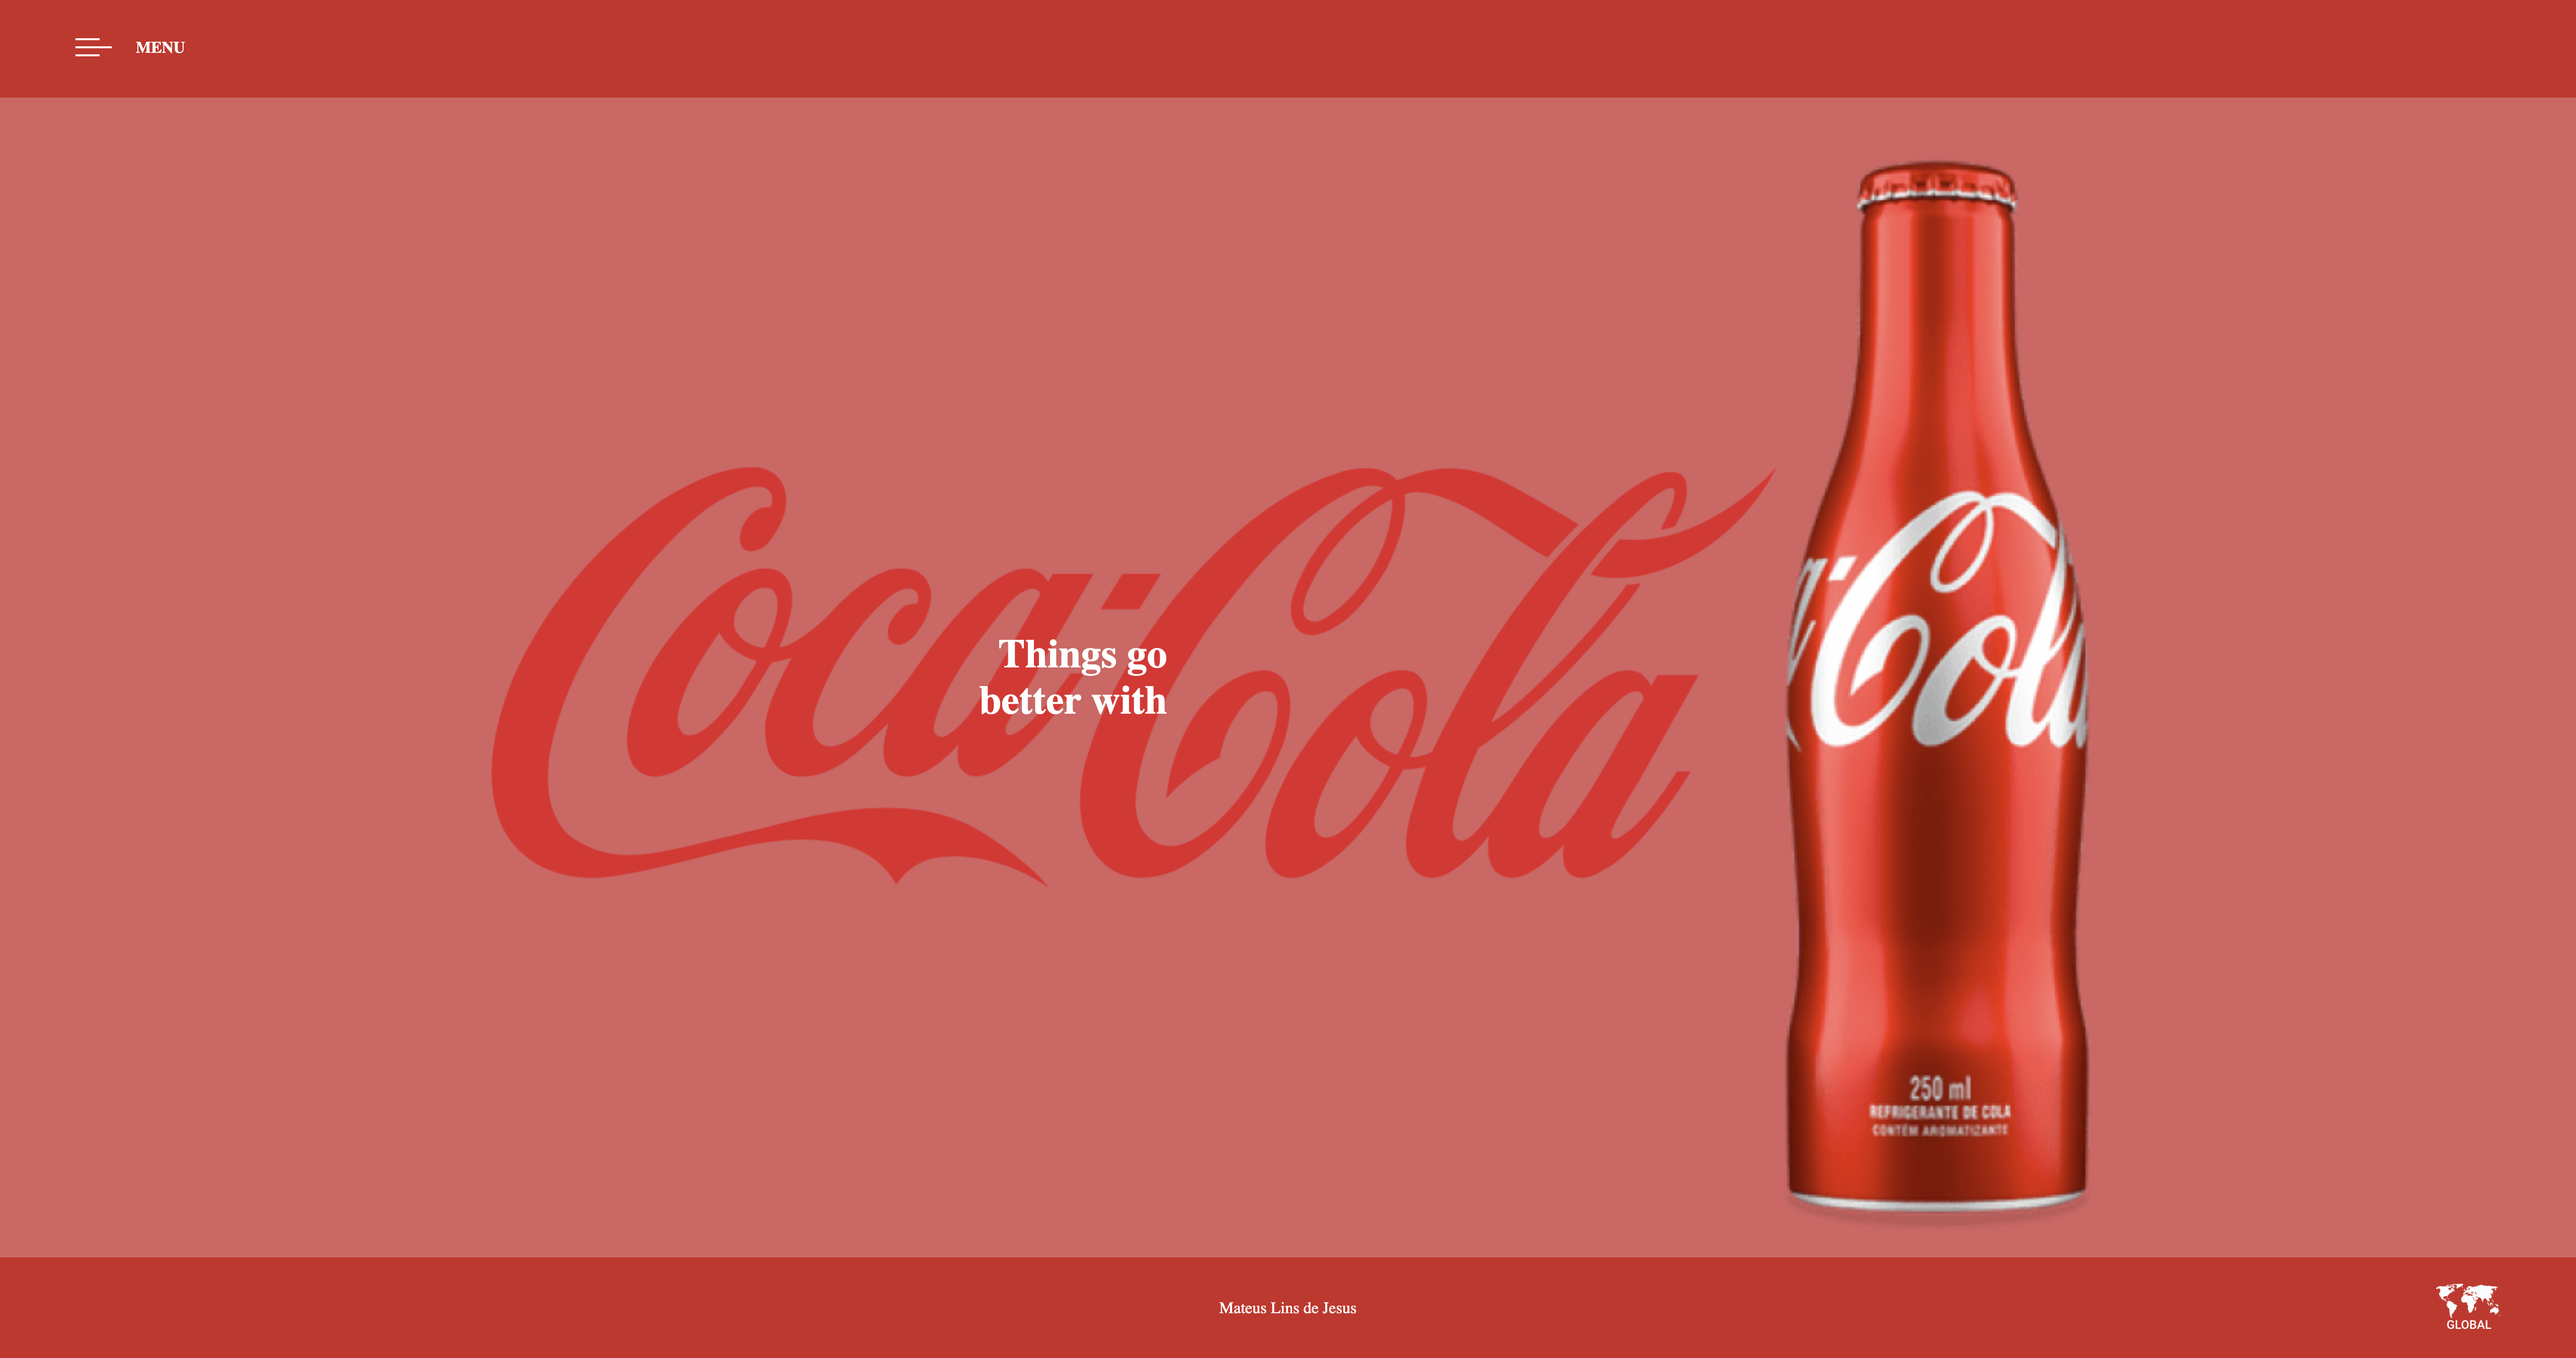
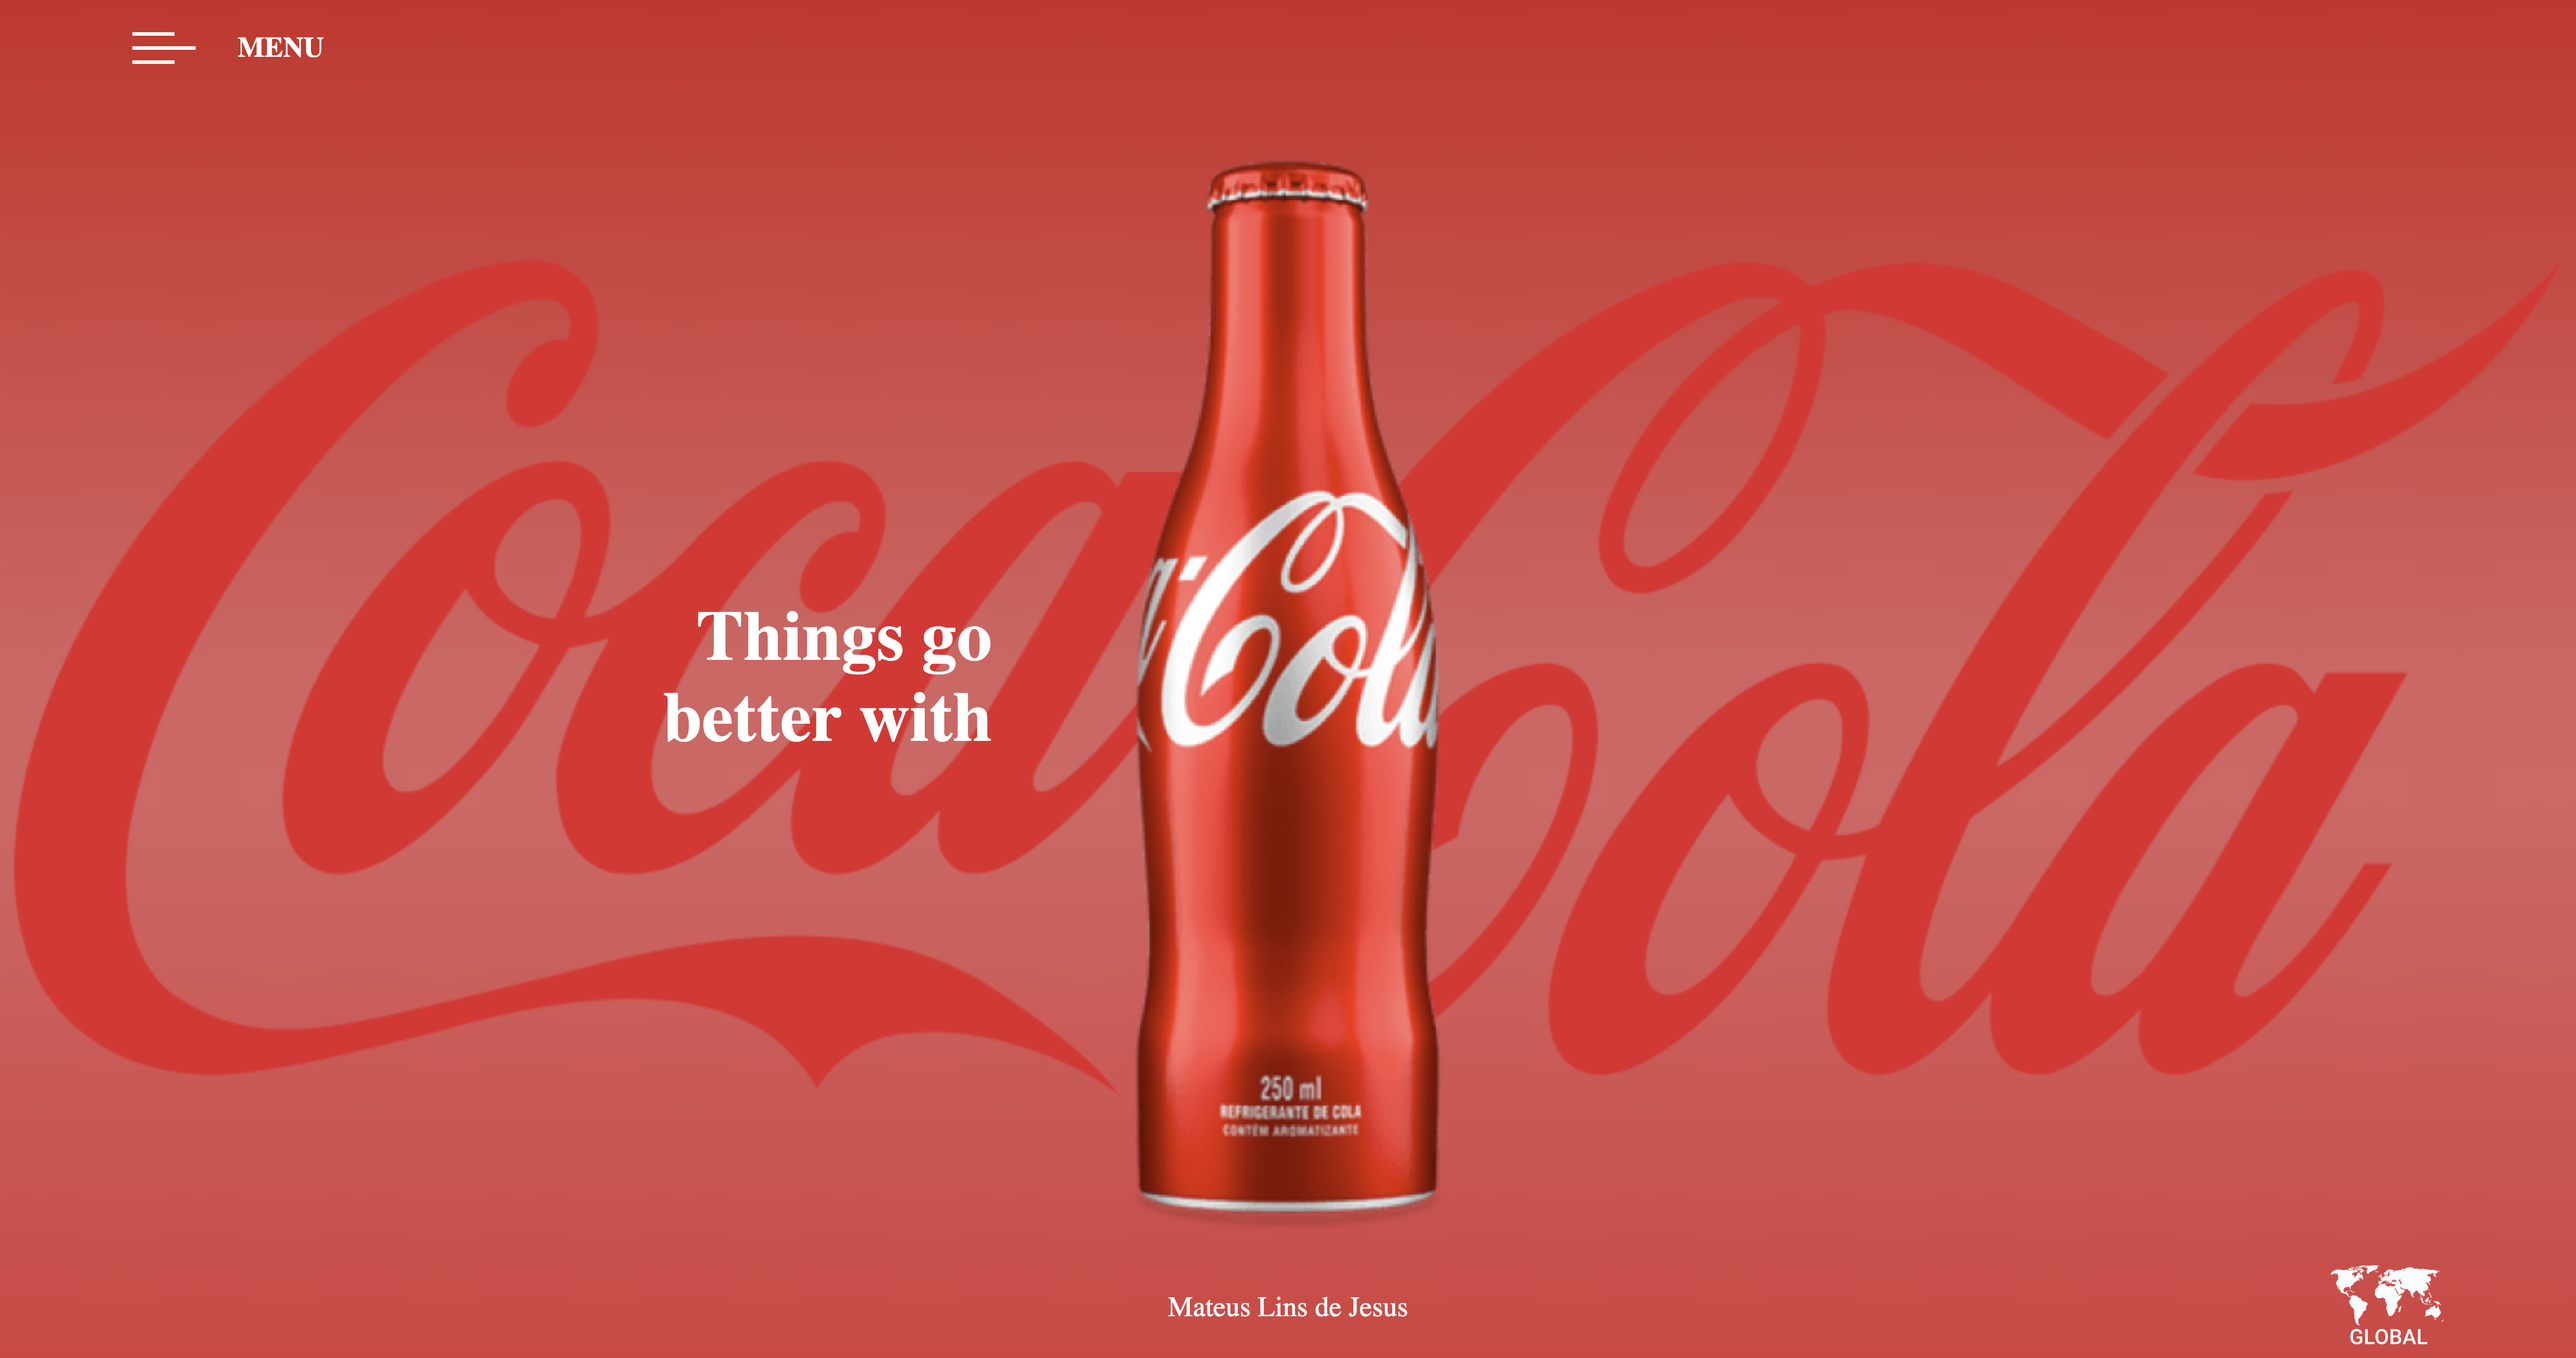
questoes e tals

diff --git a/style.css b/style.css
@@ -14,7 +14,6 @@ body{
 
 header, footer{
     height: 100px;
-    background-color: #CF2425;
     color: #FFFFFF;
     display: flex;
     align-items: center;
@@ -27,7 +26,7 @@ main{
     display: flex;
     justify-content: center;
     align-items: center;
-    background-color: #DA6062;
+    
 }
 
 header{
@@ -68,7 +67,7 @@ main{
     color: #ffffff;
     font-size: 2.5rem;
     width: 240px;
-    transform: translateX(-100%);
+    transform: translateX(-120%);
     text-align: end;
 }
 

diff --git a/index.html b/index.html
@@ -13,7 +13,7 @@
     </header>
         
     <main>
-        <img src="./imagens ngc/background-image.png" alt="logo da coca-cola" class="background-image">
+        <img src="./imagens ngc/background-image.png" alt="logo da coca-cola" class="background-logo">
         <h2 class="content-text">Things go better with</h2>
         <img src="./imagens ngc/coca-cola.png" alt="garrafa coca-cola" class="content-image">
     </main>
